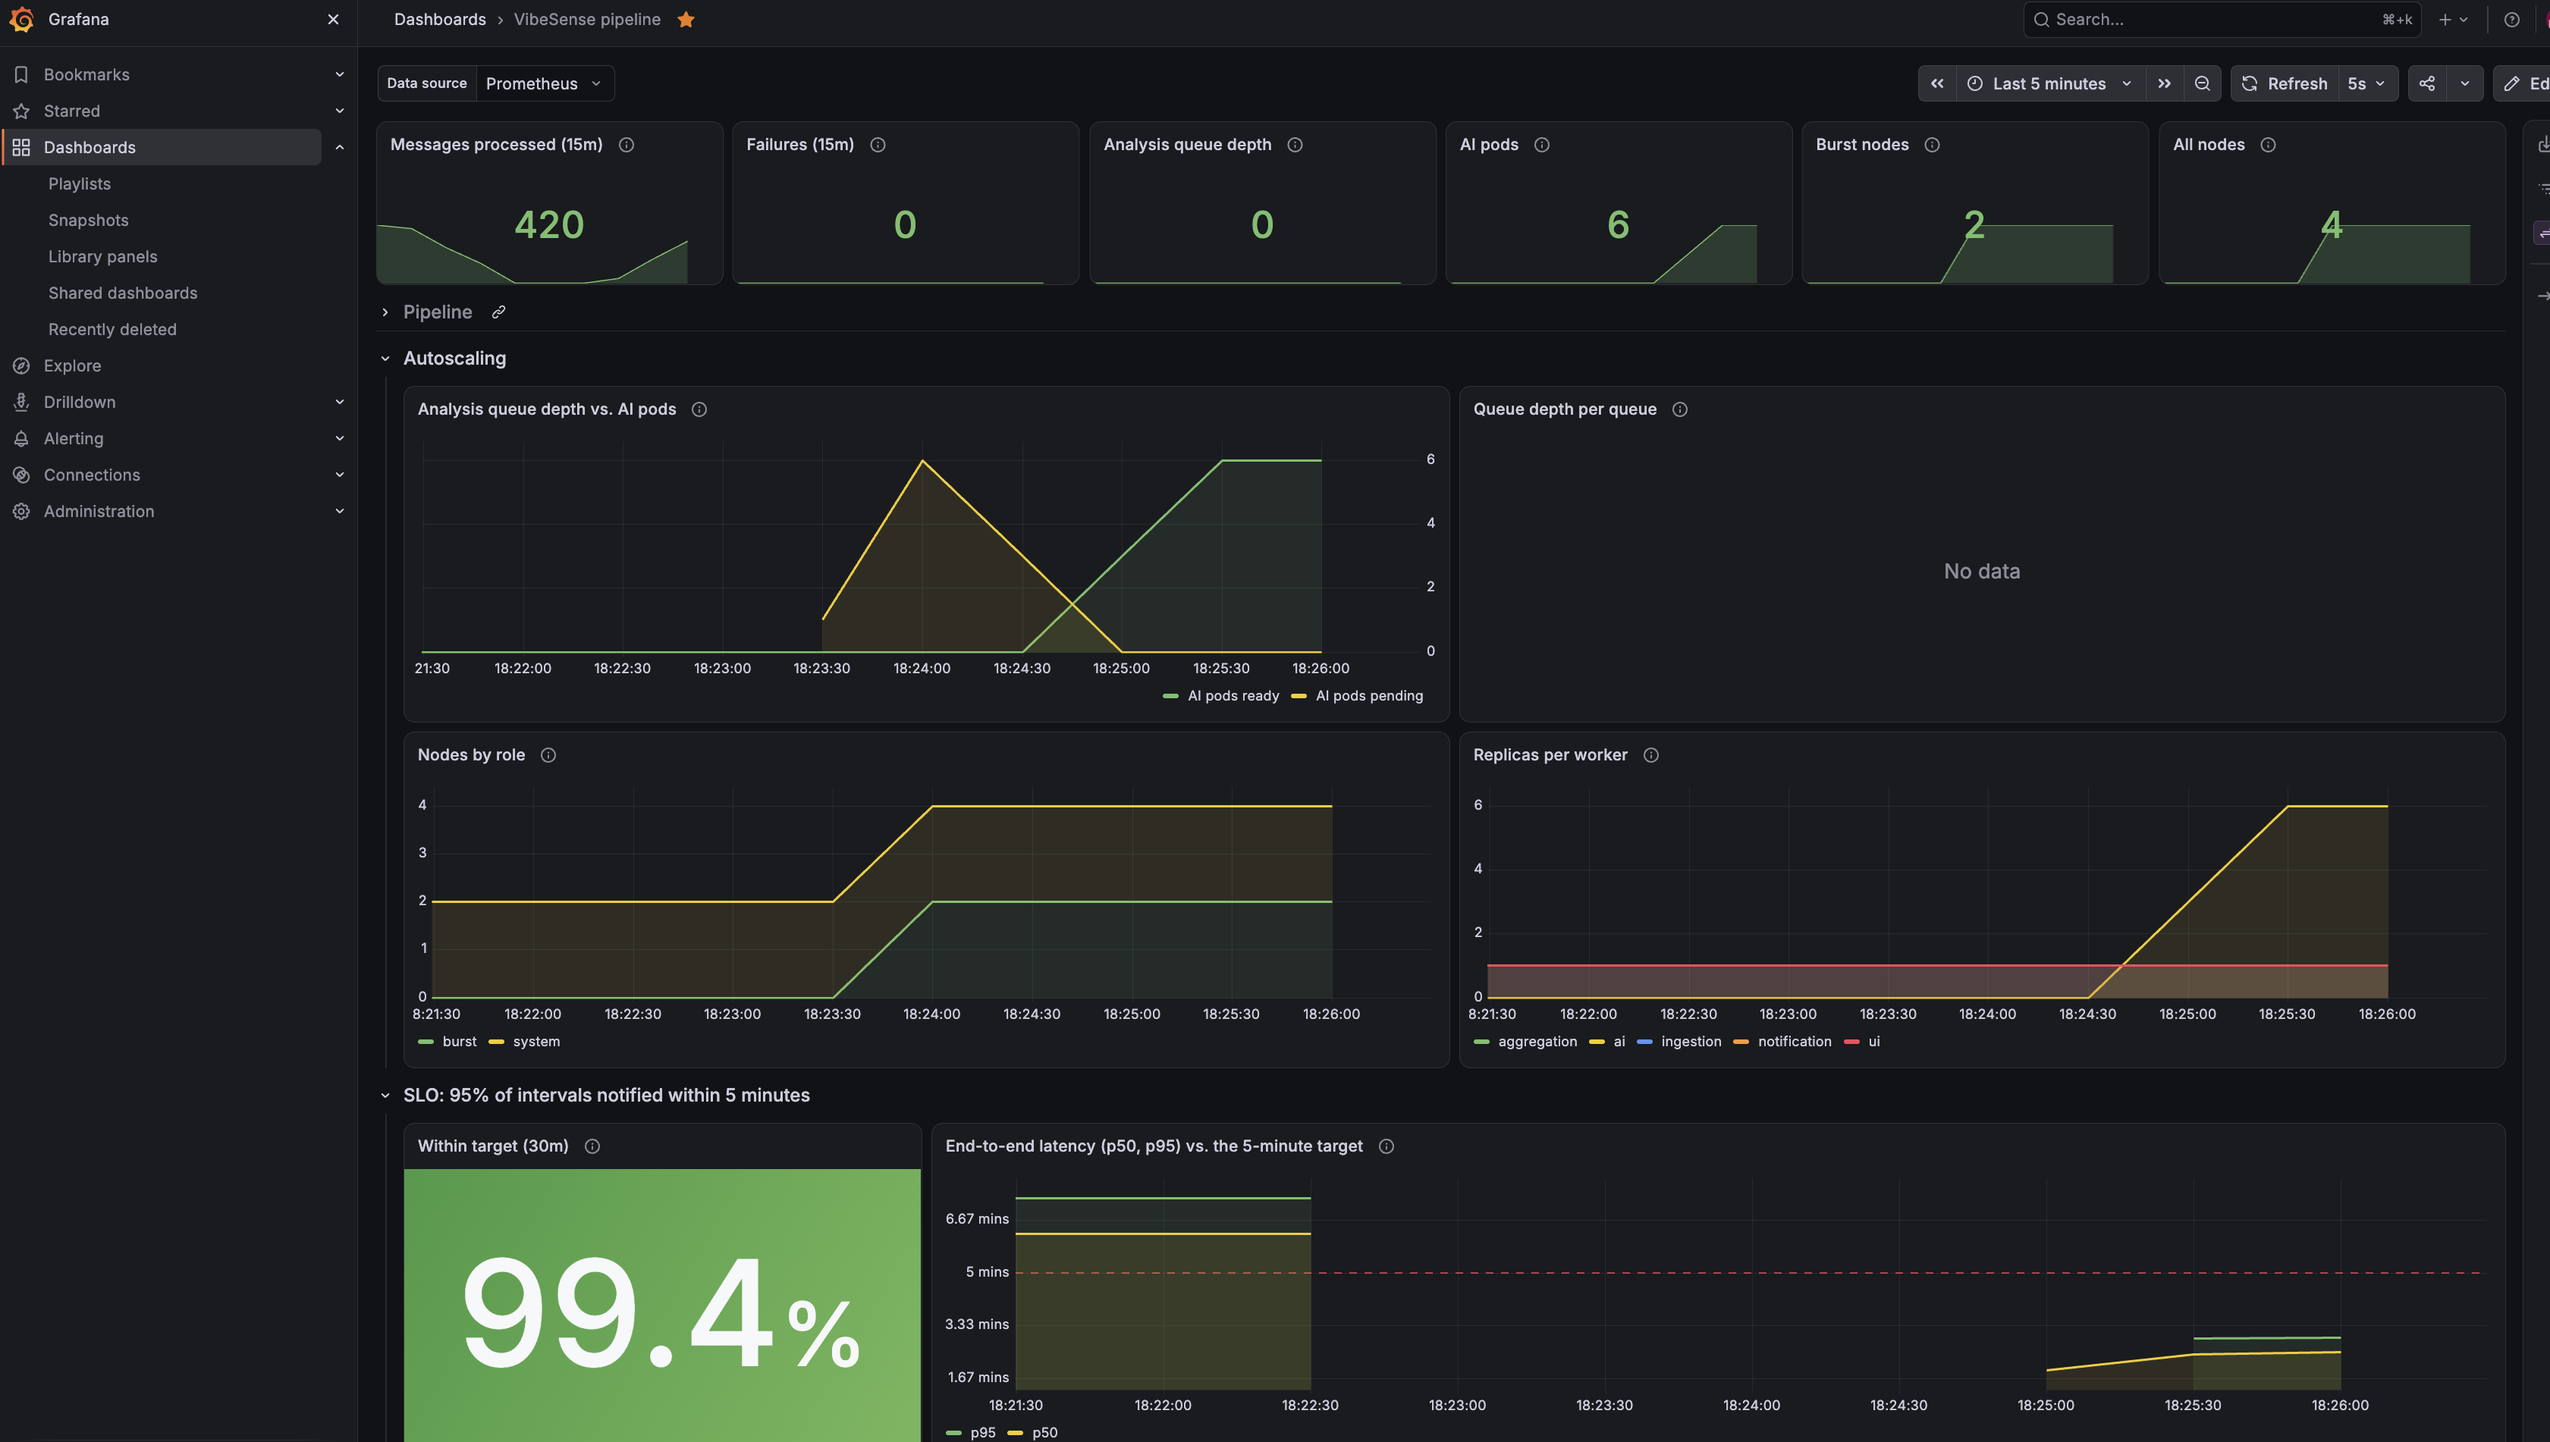
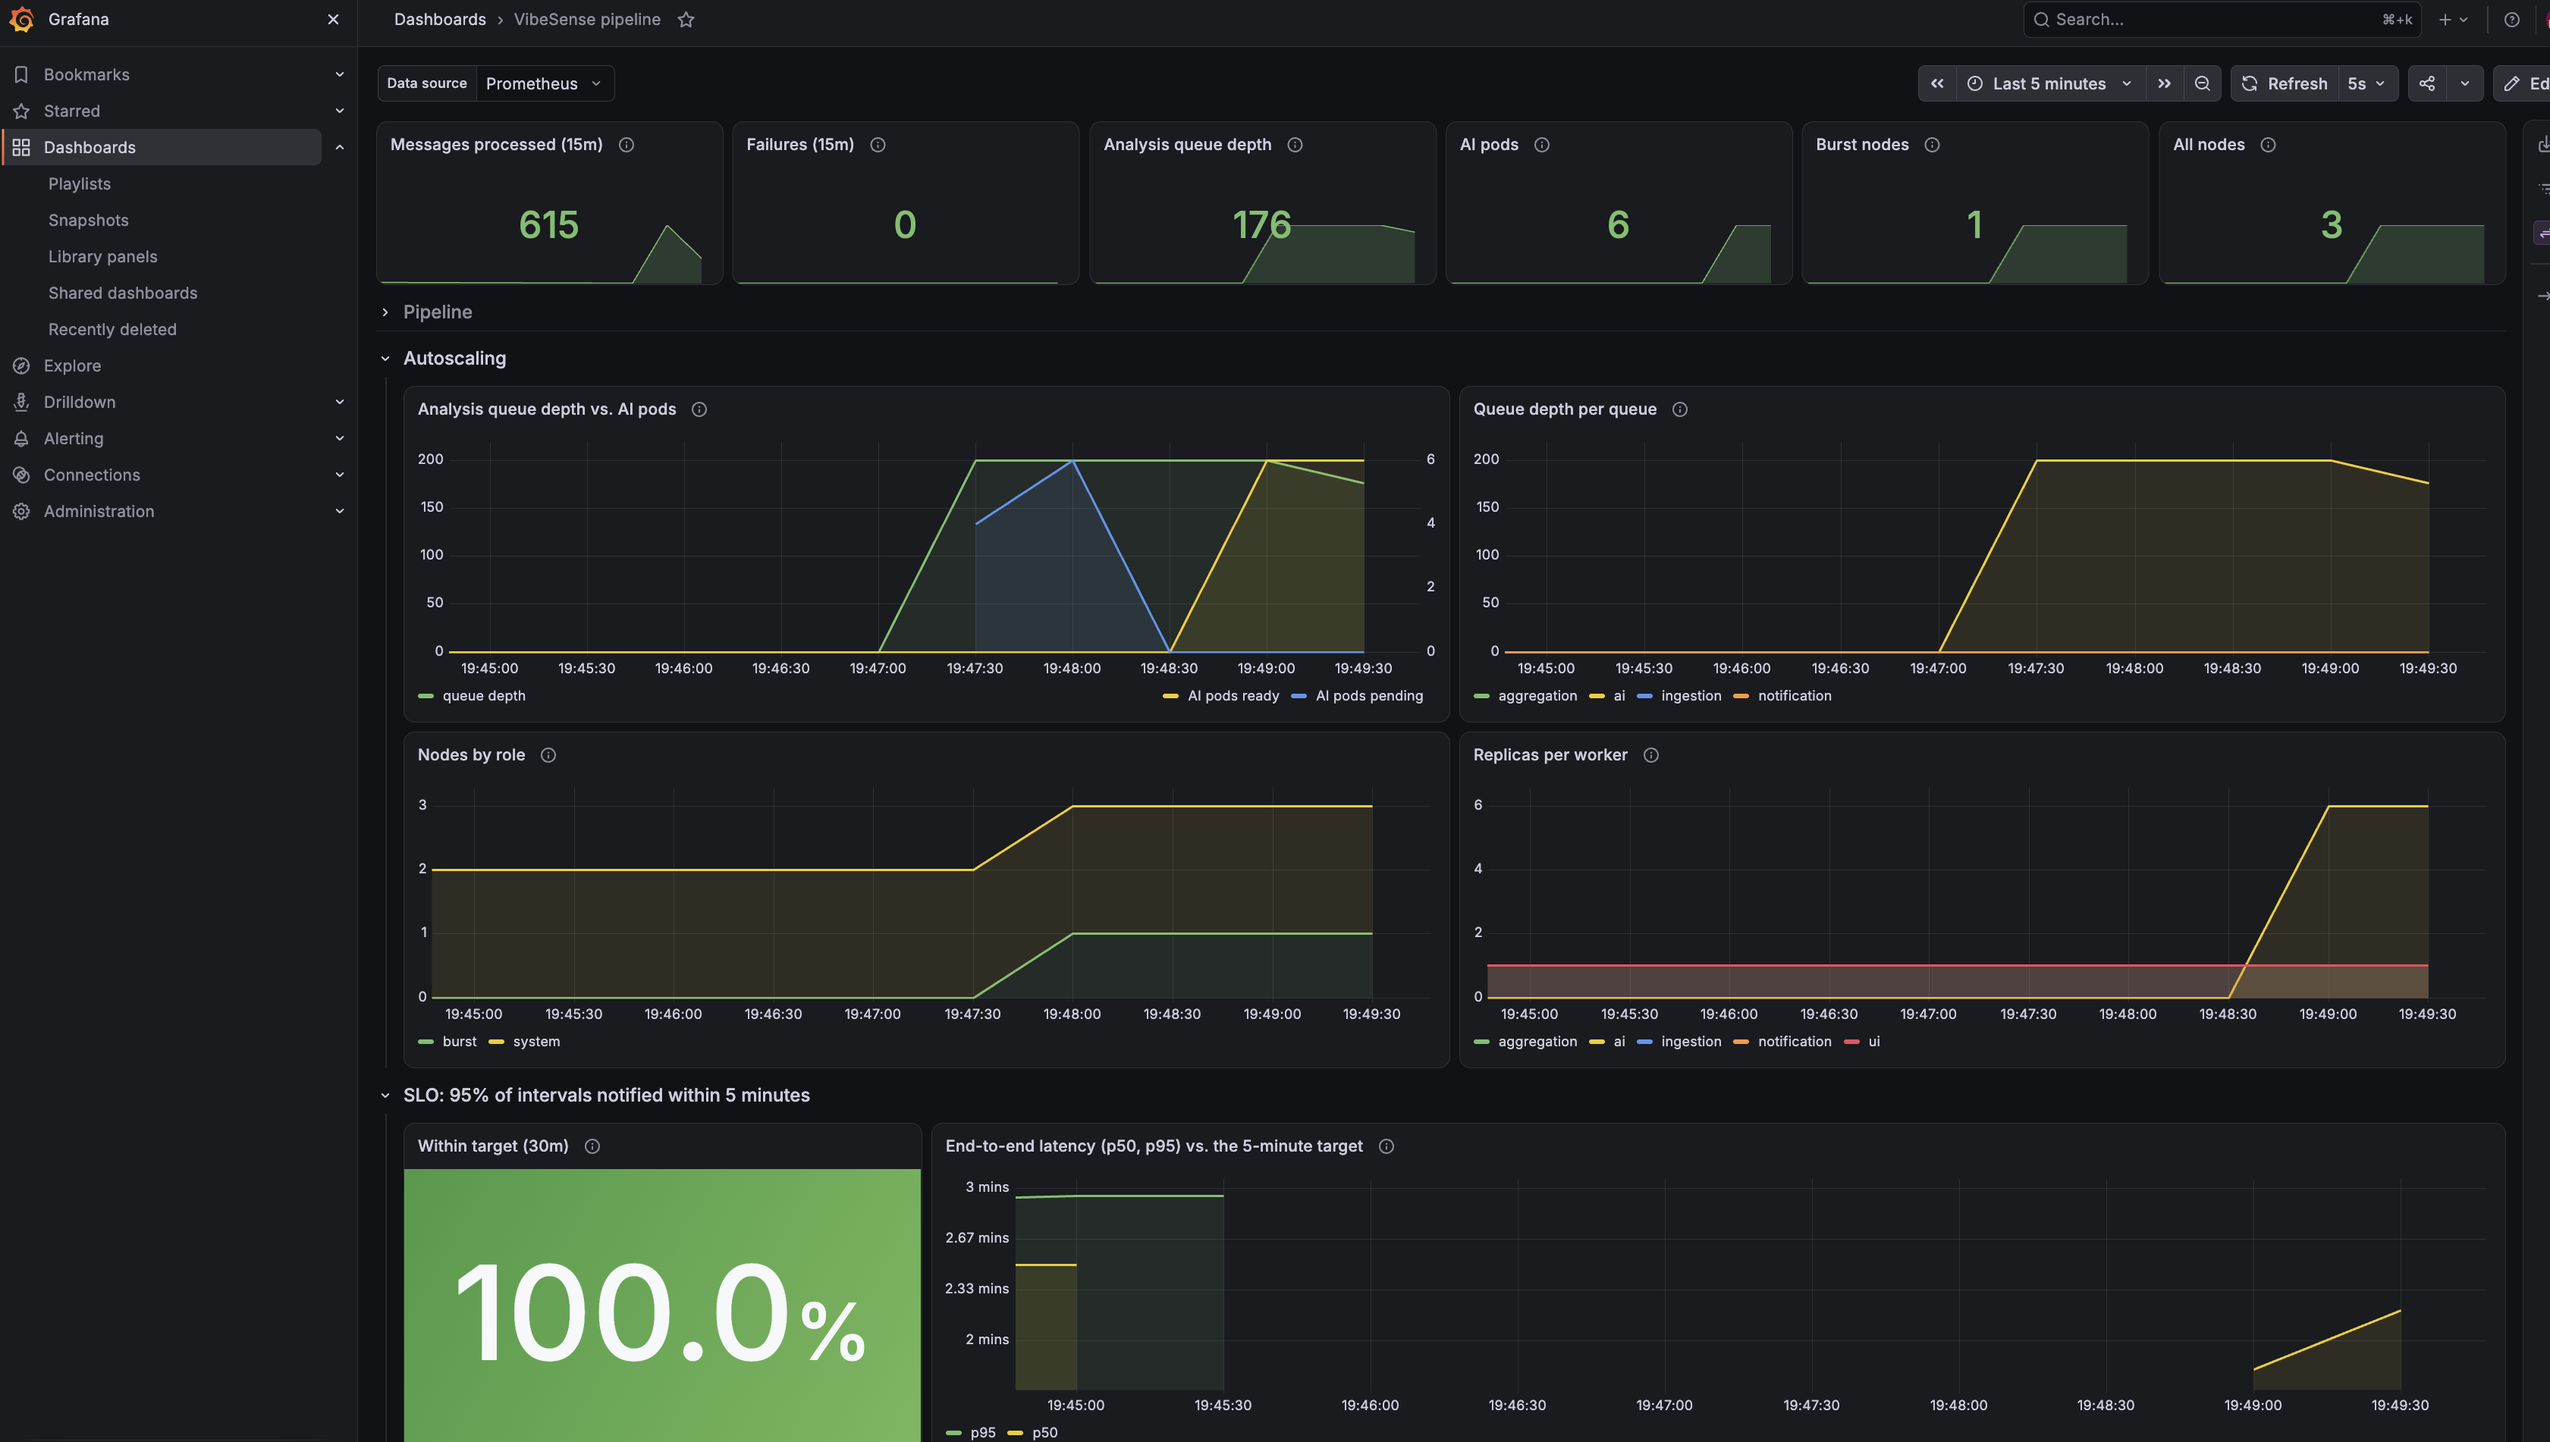
Updated screenshots: the full Argo CD app tree and the autoscaling dashboard with queue depth

diff --git a/docs/measurements.md b/docs/measurements.md
@@ -13,7 +13,7 @@ Re-measure when something here changes; keep the date.
 | `terraform destroy` | ~12 min | 2026-11-14: 12 m 14 s | |
 | Running cost while up | ~$0.19/hour | | Torn down after every session |
 
-![Argo CD root app with the platform add-ons](images/argocd-root-app.png)
+![Argo CD root app: all 12 apps Synced and Healthy after make up](images/argocd-root-app.png)
 
 ## Images and the AI service
 
@@ -70,7 +70,7 @@ pending pods as it sees them.
 | What | Result |
 | --- | --- |
 | `make up`: nothing → UI answering through the ALB | 20 m 53 s (Terraform 12 m 0 s; all 12 Argo CD apps healthy at 20 m 52 s) |
-| `make down`: everything → zero, with a clean leftovers report | 16 m 10 s; all 16 leftover checks `ok` |
+| `make down`: everything → zero, with a clean leftovers report | 16 m 10 s, then 14 m 07 s; all 16 leftover checks `ok` both times |
 | Network policy: another pod → a worker's port 9000 | Blocked; all pods stayed Ready |
 
 Load test (`make load JOBS=20 MESSAGES=200`), AI worker starting at 0 pods:
@@ -99,4 +99,4 @@ and from CloudWatch Logs.
 
 ![VibeSense pipeline dashboard during a load test: throughput per stage](images/grafana-pipeline.png)
 
-![Autoscaling and SLO rows: AI pods pending then ready, burst nodes, end-to-end latency](images/grafana-autoscaling-slo.png)
+![Autoscaling and SLO rows: queue depth jumps to 200, AI pods go pending while Karpenter adds a node, then ready as the queue drains](images/grafana-autoscaling-slo.png)
